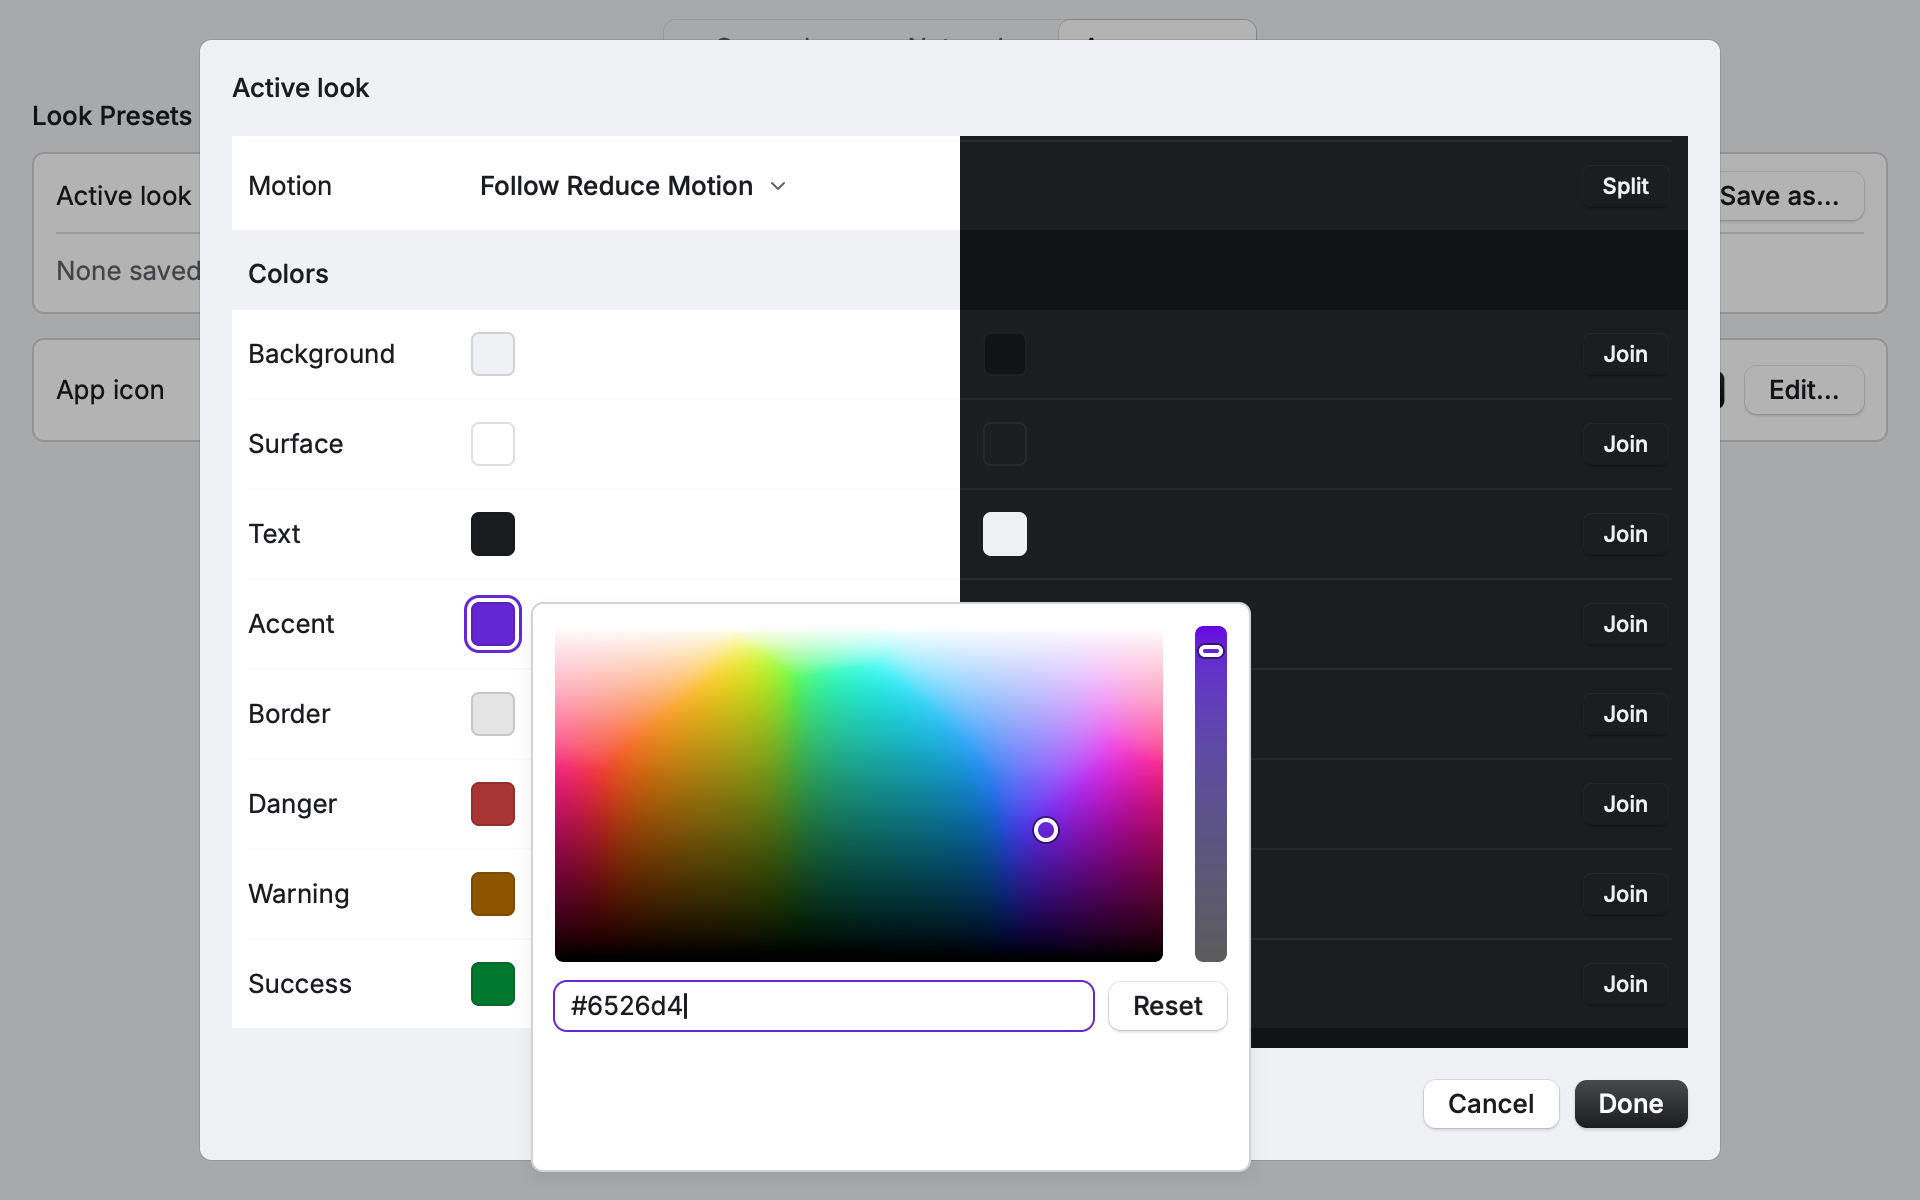
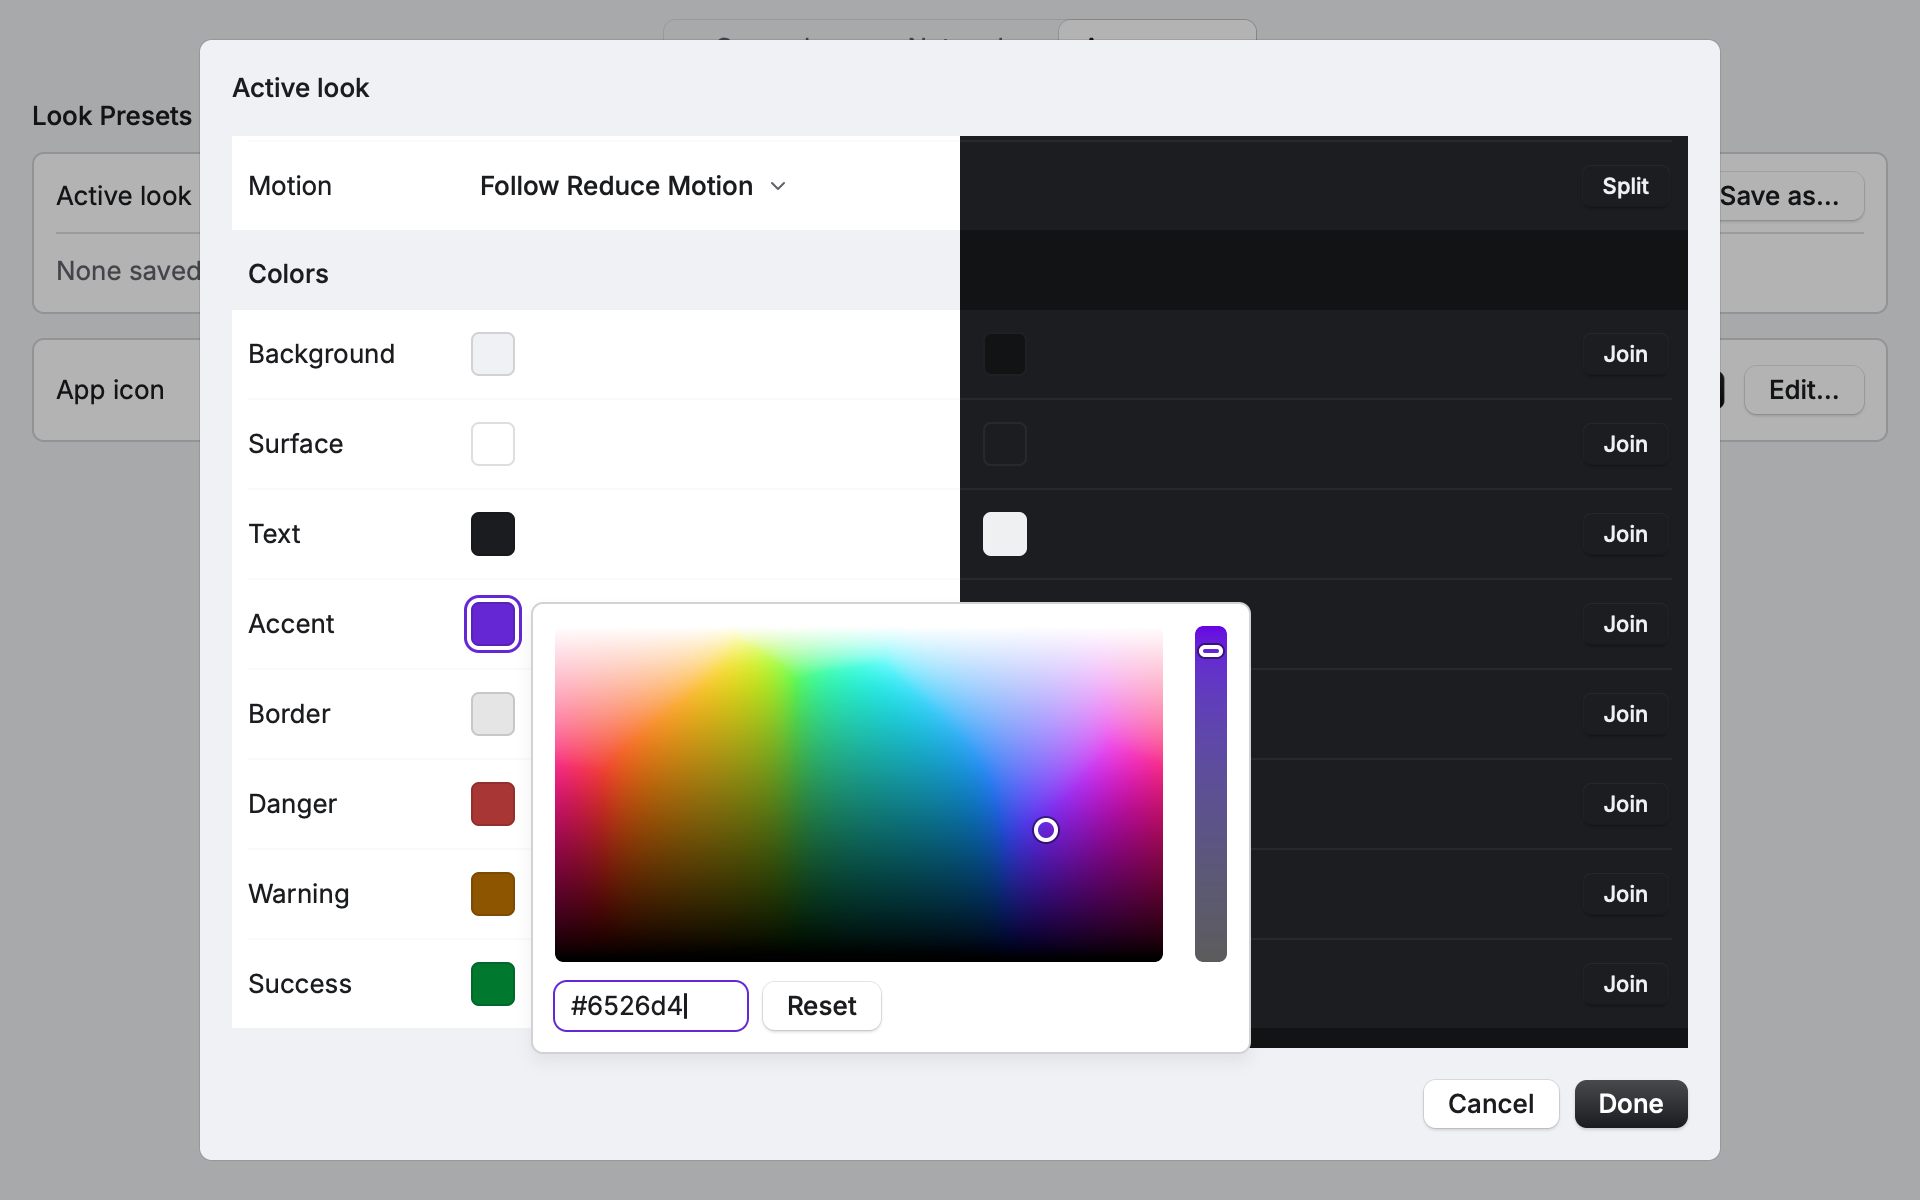
Artifacts for 417-colors

Changed region(s): [[0.2812, 0.8325, 0.6562, 0.8942], [0.2812, 0.9558, 0.6562, 0.9867]]

diff --git a/417-colors/index.md b/417-colors/index.md
@@ -1,15 +1,15 @@
 # #417 Colors (branch 417-colors)
 
-Headless renders (re-rendered after the review fixes: no subtitle under Colors, the picker's kept room) (`--at 0.5`, 2x unless noted) of the real build, Light and Dark system Appearance (the sheet shows both halves either way). Data and downloads in temp dirs.
+Headless renders (re-rendered after review round 1: no subtitle under Colors; after round 2: the picker placed for its tallest and drawn at its own height, the hex field short; the popup, two-theme and drag-after artifacts) (`--at 0.5`, 2x unless noted) of the real build, Light and Dark system Appearance (the sheet shows both halves either way). Data and downloads in temp dirs.
 
 - [sheet-light.png](sheet-light.png), [-dark](sheet-dark.png): the Active look's sheet: Look (Corners, Motion), Colors and the eight bases. 960x600.
 - [narrow-sheet-light.png](narrow-sheet-light.png), [-dark](narrow-sheet-dark.png): the same at 640x600.
 - [every-light.png](every-light.png), [-dark](every-dark.png): "Every color" open, 960x1500 at 1x. Faint text set by hand in Light, Muted text in Dark: each ringed in its half's accent.
 - [narrow-every-light.png](narrow-every-light.png), [-dark](narrow-every-dark.png): the same at 640 wide ("Sheet and dialog" wraps).
 - [popup-faint-light.png](popup-faint-light.png), [-dark](popup-faint-dark.png), [narrow 640 light](narrow-popup-faint-light.png), [dark](narrow-popup-faint-dark.png): the picker on a hand-set Faint text (#a3a6ab): two warnings, Follow Text.
-- [popup-accent-light.png](popup-accent-light.png), [-dark](popup-accent-dark.png): the picker on a changed Accent (#6526d4): Reset, no warning (it passes 3:1), and the room kept for the Accent's two warnings.
+- [popup-accent-light.png](popup-accent-light.png), [-dark](popup-accent-dark.png): the picker on a changed Accent (#6526d4): Reset, no warning (it passes 3:1): the popup as tall as what it shows.
 - [tooltip-light.png](tooltip-light.png), [-dark](tooltip-dark.png): resting on Muted text's swatch: "#606369 · follows Text".
 - [main-accent-light.png](main-accent-light.png), [-dark](main-accent-dark.png): the main window with the Accent changed (#c2410c Light, #fb923c Dark): bars, selection, tab mark.
 - [themes-every-light.png](themes-every-light.png), [-dark](themes-every-dark.png): a different theme in each half (Phantom ☀, the stand-in ☾): Phantom's "Every color" opened from its chevron row, as with one theme.
-- [drag-before-light.gif](drag-before-light.gif), [drag-after-light.gif](drag-after-light.gif): the same script, before and after the picker keeps room for its warnings: opening the Accent's picker, dragging in the square, then the saturation bar; the color applies while dragging (1x, pointer shown). Before, the popup grows and jumps above its swatch when the warnings appear; after, it stays put.
+- [drag-before-light.gif](drag-before-light.gif), [drag-after-light.gif](drag-after-light.gif): the same script, before round 1 and now: opening the Accent's picker, dragging in the square, then the saturation bar; the color applies while dragging (1x, pointer shown). Before, the popup grows and jumps above its swatch when the warnings appear; now its top stays level with the swatch and it grows downward.
 - [drag-square-light.gif](drag-square-light.gif): the first version of the drag (the popup jumping), superseded by the pair above.
